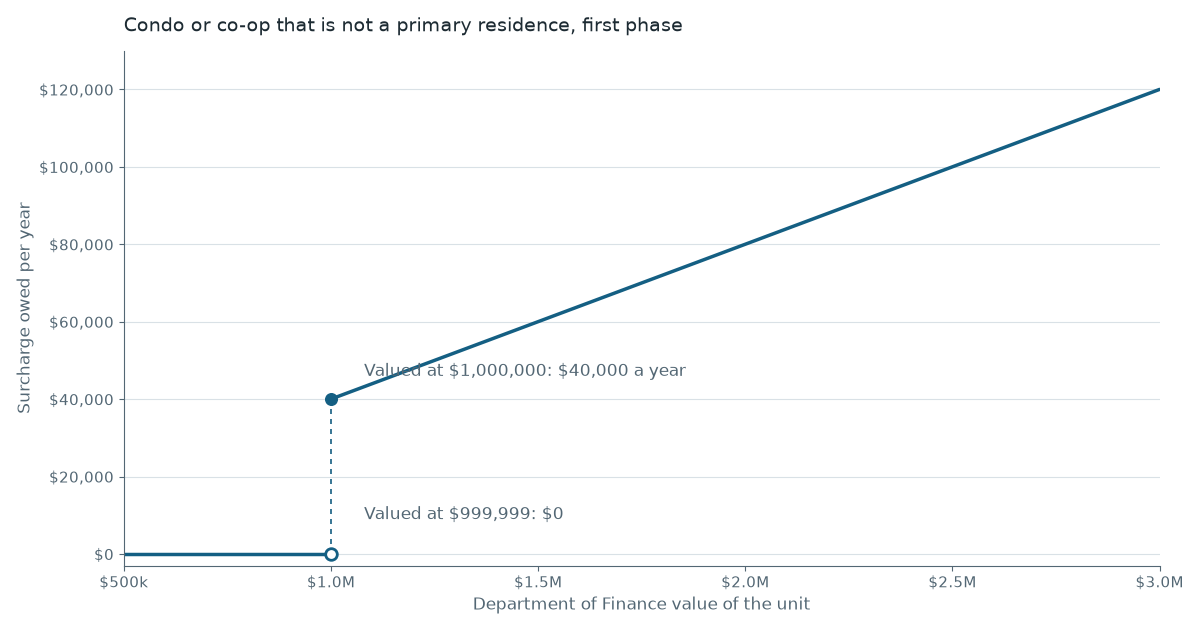
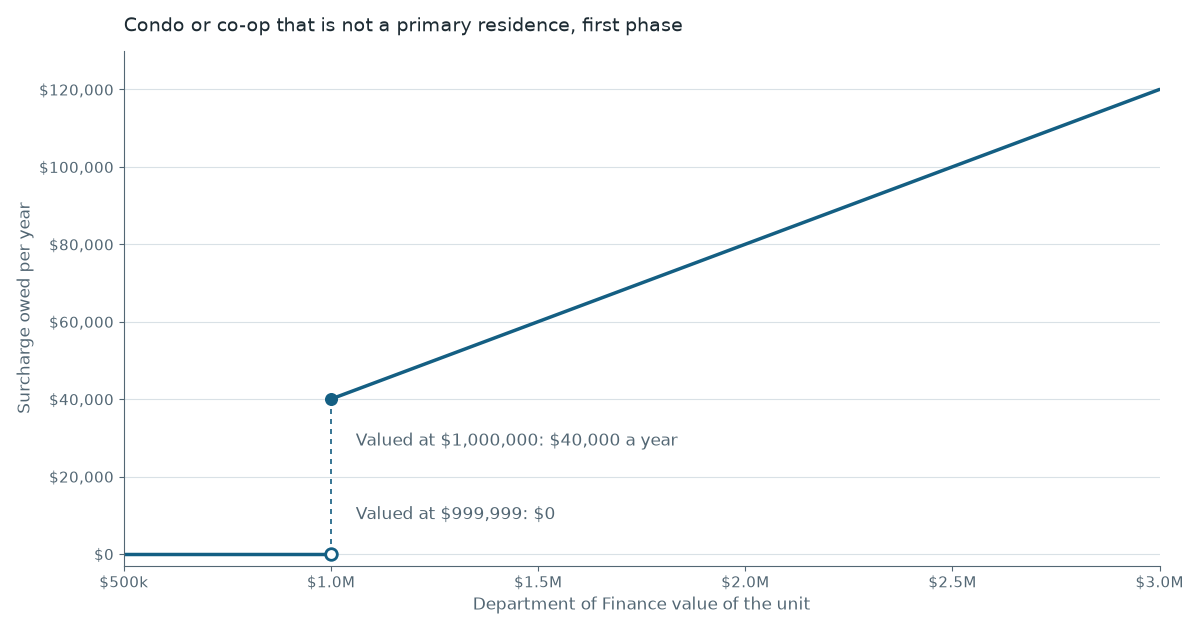
Second-home tax story: keep 'second-home' on one line in the headline; move chart labels off the line

Changed region(s): [[0.3083, 0.7841, 0.4625, 0.8444], [0.3083, 0.573, 0.5858, 0.6032], [0.3083, 0.6937, 0.555, 0.7238]]

diff --git a/dist/stories/second-home-tax-cliff/index.html b/dist/stories/second-home-tax-cliff/index.html
@@ -1,4 +1,4 @@
-<!doctype html><html lang="en"><head><meta charset="utf-8"><meta name="viewport" content="width=device-width, initial-scale=1"><meta name="color-scheme" content="light dark"><title>New York&#x27;s second-home tax starts at a cliff | NYC Housing Data</title><meta name="description" content="Owners of condos the city values at $1 million or more, and of houses valued at $5 million or more, will get bills this winter. One dollar over the line and the surcharge covers the whole value."><link rel="canonical" href="https://nychousingdata.com/stories/second-home-tax-cliff/"><meta property="og:type" content="article"><meta property="og:title" content="New York&#x27;s second-home tax starts at a cliff"><meta property="og:description" content="Owners of condos the city values at $1 million or more, and of houses valued at $5 million or more, will get bills this winter. One dollar over the line and the surcharge covers the whole value."><meta property="og:url" content="https://nychousingdata.com/stories/second-home-tax-cliff/"><meta property="og:image" content="https://nychousingdata.com/assets/stories/second-home-surcharge.png"><meta name="twitter:card" content="summary_large_image"><link rel="stylesheet" href="../../assets/site.css?v=20261028review"><link rel="stylesheet" href="../../assets/stories.css?v=20261028review"><link rel="alternate" type="application/atom+xml" title="Housing Stories" href="../../stories/feed.xml"><script type="application/ld+json">{"@context": "https://schema.org", "@type": "Article", "headline": "New York's second-home tax starts at a cliff", "description": "Owners of condos the city values at $1 million or more, and of houses valued at $5 million or more, will get bills this winter. One dollar over the line and the surcharge covers the whole value.", "author": {"@type": "Person", "name": "Pablo Loschi", "url": "https://nychousingdata.com/#about"}, "datePublished": "2026-11-07", "dateModified": "2026-11-07", "image": "https://nychousingdata.com/assets/stories/second-home-surcharge.png", "mainEntityOfPage": "https://nychousingdata.com/stories/second-home-tax-cliff/", "isBasedOn": "https://doi.org/10.5281/zenodo.23761331", "license": "https://creativecommons.org/licenses/by/4.0/"}</script><link rel="icon" type="image/svg+xml" href="../../assets/logo.svg"><link rel="stylesheet" href="../../assets/tools.css?v=20261028review"></head><body><a class="skip" href="#main">Skip to content</a><header class="site-header"><div class="header-inner"><a class="brand" href="../../"><span class="brand-mark" aria-hidden="true"><img src="../../assets/logo.svg" width="43" height="43" alt=""></span><span class="brand-name">NYC Housing Data</span></a><nav class="site-nav" aria-label="Main navigation"><a href="../../explore/">Explore data</a><a href="../../stories/" aria-current="page">Stories</a><a href="../../#papers">Research</a><a href="../../press/">Press</a><a href="../../#about">About</a></nav></div></header><main id="main"><section class="story-head"><div class="wrap"><nav class="breadcrumbs" aria-label="Breadcrumb"><a href="../">Stories</a><span>/</span><span>Buying &amp; taxes</span></nav><p class="eyebrow">Analysis · New York City</p><h1>New York&#x27;s second-home tax starts at a cliff</h1><p class="story-deck">Owners of condos the city values at $1 million or more, and of houses valued at $5 million or more, will get bills this winter. One dollar over the line and the surcharge covers the whole value.</p><div class="story-byline"><span>By <a href="../../#about">Pablo Loschi</a></span><time datetime="2026-11-07">7 November 2026</time><span>5 min read</span><a href="#sources">Sources &amp; methods</a></div></div></section><article class="story-text">
+<!doctype html><html lang="en"><head><meta charset="utf-8"><meta name="viewport" content="width=device-width, initial-scale=1"><meta name="color-scheme" content="light dark"><title>New York&#x27;s second-home tax starts at a cliff | NYC Housing Data</title><meta name="description" content="Owners of condos the city values at $1 million or more, and of houses valued at $5 million or more, will get bills this winter. One dollar over the line and the surcharge covers the whole value."><link rel="canonical" href="https://nychousingdata.com/stories/second-home-tax-cliff/"><meta property="og:type" content="article"><meta property="og:title" content="New York&#x27;s second-home tax starts at a cliff"><meta property="og:description" content="Owners of condos the city values at $1 million or more, and of houses valued at $5 million or more, will get bills this winter. One dollar over the line and the surcharge covers the whole value."><meta property="og:url" content="https://nychousingdata.com/stories/second-home-tax-cliff/"><meta property="og:image" content="https://nychousingdata.com/assets/stories/second-home-surcharge.png"><meta name="twitter:card" content="summary_large_image"><link rel="stylesheet" href="../../assets/site.css?v=20261028review"><link rel="stylesheet" href="../../assets/stories.css?v=20261028review"><link rel="alternate" type="application/atom+xml" title="Housing Stories" href="../../stories/feed.xml"><script type="application/ld+json">{"@context": "https://schema.org", "@type": "Article", "headline": "New York's second-home tax starts at a cliff", "description": "Owners of condos the city values at $1 million or more, and of houses valued at $5 million or more, will get bills this winter. One dollar over the line and the surcharge covers the whole value.", "author": {"@type": "Person", "name": "Pablo Loschi", "url": "https://nychousingdata.com/#about"}, "datePublished": "2026-11-07", "dateModified": "2026-11-07", "image": "https://nychousingdata.com/assets/stories/second-home-surcharge.png", "mainEntityOfPage": "https://nychousingdata.com/stories/second-home-tax-cliff/", "isBasedOn": "https://doi.org/10.5281/zenodo.23761331", "license": "https://creativecommons.org/licenses/by/4.0/"}</script><link rel="icon" type="image/svg+xml" href="../../assets/logo.svg"><link rel="stylesheet" href="../../assets/tools.css?v=20261028review"></head><body><a class="skip" href="#main">Skip to content</a><header class="site-header"><div class="header-inner"><a class="brand" href="../../"><span class="brand-mark" aria-hidden="true"><img src="../../assets/logo.svg" width="43" height="43" alt=""></span><span class="brand-name">NYC Housing Data</span></a><nav class="site-nav" aria-label="Main navigation"><a href="../../explore/">Explore data</a><a href="../../stories/" aria-current="page">Stories</a><a href="../../#papers">Research</a><a href="../../press/">Press</a><a href="../../#about">About</a></nav></div></header><main id="main"><section class="story-head"><div class="wrap"><nav class="breadcrumbs" aria-label="Breadcrumb"><a href="../">Stories</a><span>/</span><span>Buying &amp; taxes</span></nav><p class="eyebrow">Analysis · New York City</p><h1>New York&#x27;s <span style="white-space:nowrap">second-home</span> tax starts at a cliff</h1><p class="story-deck">Owners of condos the city values at $1 million or more, and of houses valued at $5 million or more, will get bills this winter. One dollar over the line and the surcharge covers the whole value.</p><div class="story-byline"><span>By <a href="../../#about">Pablo Loschi</a></span><time datetime="2026-11-07">7 November 2026</time><span>5 min read</span><a href="#sources">Sources &amp; methods</a></div></div></section><article class="story-text">
 <p>On 4 November a state appeals court threw out the lawsuit that had held up New York City's surcharge on homes that are nobody's primary residence. The four judges of the Appellate Division, Second Department, ruled unanimously that the seven homeowners who sued had not shown that the city's notices harmed them. They did not rule on the tax itself, and other challenges, including one in Suffolk County, are still pending. A real estate lawyer told Commercial Observer that owners should expect bills within weeks. The first payment is due on 1 January 2027.</p>
 <p>Mayor Mamdani proposed the surcharge, and it passed as part of the state budget Governor Hochul signed in May. The city mailed about 17,000 notices to owners whose records did not show a primary residence, and Gothamist reports that more than 8,800 exemptions have been granted since. The comptroller estimated earlier this year that the surcharge could raise up to $380 million a year from about 11,200 properties; the mayor puts the figure at $500 million.</p>
 <p>Until June 2028 it runs on two schedules. A condo or co-op unit pays 4% a year once the Department of Finance values it at $1 million, 5.25% above $3 million and 6.5% above $5 million. A one- to three-family house pays 0.8% from $5 million, 1.05% above $15 million and 1.3% above $25 million.</p>

diff --git a/stories/second-home-tax-cliff/index.html b/stories/second-home-tax-cliff/index.html
@@ -1,4 +1,4 @@
-<!doctype html><html lang="en"><head><meta charset="utf-8"><meta name="viewport" content="width=device-width, initial-scale=1"><meta name="color-scheme" content="light dark"><title>New York&#x27;s second-home tax starts at a cliff | NYC Housing Data</title><meta name="description" content="Owners of condos the city values at $1 million or more, and of houses valued at $5 million or more, will get bills this winter. One dollar over the line and the surcharge covers the whole value."><link rel="canonical" href="https://nychousingdata.com/stories/second-home-tax-cliff/"><meta property="og:type" content="article"><meta property="og:title" content="New York&#x27;s second-home tax starts at a cliff"><meta property="og:description" content="Owners of condos the city values at $1 million or more, and of houses valued at $5 million or more, will get bills this winter. One dollar over the line and the surcharge covers the whole value."><meta property="og:url" content="https://nychousingdata.com/stories/second-home-tax-cliff/"><meta property="og:image" content="https://nychousingdata.com/assets/stories/second-home-surcharge.png"><meta name="twitter:card" content="summary_large_image"><link rel="stylesheet" href="../../assets/site.css?v=20261028review"><link rel="stylesheet" href="../../assets/stories.css?v=20261028review"><link rel="alternate" type="application/atom+xml" title="Housing Stories" href="../../stories/feed.xml"><script type="application/ld+json">{"@context": "https://schema.org", "@type": "Article", "headline": "New York's second-home tax starts at a cliff", "description": "Owners of condos the city values at $1 million or more, and of houses valued at $5 million or more, will get bills this winter. One dollar over the line and the surcharge covers the whole value.", "author": {"@type": "Person", "name": "Pablo Loschi", "url": "https://nychousingdata.com/#about"}, "datePublished": "2026-11-07", "dateModified": "2026-11-07", "image": "https://nychousingdata.com/assets/stories/second-home-surcharge.png", "mainEntityOfPage": "https://nychousingdata.com/stories/second-home-tax-cliff/", "isBasedOn": "https://doi.org/10.5281/zenodo.23761331", "license": "https://creativecommons.org/licenses/by/4.0/"}</script><link rel="icon" type="image/svg+xml" href="../../assets/logo.svg"><link rel="stylesheet" href="../../assets/tools.css?v=20261028review"></head><body><a class="skip" href="#main">Skip to content</a><header class="site-header"><div class="header-inner"><a class="brand" href="../../"><span class="brand-mark" aria-hidden="true"><img src="../../assets/logo.svg" width="43" height="43" alt=""></span><span class="brand-name">NYC Housing Data</span></a><nav class="site-nav" aria-label="Main navigation"><a href="../../explore/">Explore data</a><a href="../../stories/" aria-current="page">Stories</a><a href="../../#papers">Research</a><a href="../../press/">Press</a><a href="../../#about">About</a></nav></div></header><main id="main"><section class="story-head"><div class="wrap"><nav class="breadcrumbs" aria-label="Breadcrumb"><a href="../">Stories</a><span>/</span><span>Buying &amp; taxes</span></nav><p class="eyebrow">Analysis · New York City</p><h1>New York&#x27;s second-home tax starts at a cliff</h1><p class="story-deck">Owners of condos the city values at $1 million or more, and of houses valued at $5 million or more, will get bills this winter. One dollar over the line and the surcharge covers the whole value.</p><div class="story-byline"><span>By <a href="../../#about">Pablo Loschi</a></span><time datetime="2026-11-07">7 November 2026</time><span>5 min read</span><a href="#sources">Sources &amp; methods</a></div></div></section><article class="story-text">
+<!doctype html><html lang="en"><head><meta charset="utf-8"><meta name="viewport" content="width=device-width, initial-scale=1"><meta name="color-scheme" content="light dark"><title>New York&#x27;s second-home tax starts at a cliff | NYC Housing Data</title><meta name="description" content="Owners of condos the city values at $1 million or more, and of houses valued at $5 million or more, will get bills this winter. One dollar over the line and the surcharge covers the whole value."><link rel="canonical" href="https://nychousingdata.com/stories/second-home-tax-cliff/"><meta property="og:type" content="article"><meta property="og:title" content="New York&#x27;s second-home tax starts at a cliff"><meta property="og:description" content="Owners of condos the city values at $1 million or more, and of houses valued at $5 million or more, will get bills this winter. One dollar over the line and the surcharge covers the whole value."><meta property="og:url" content="https://nychousingdata.com/stories/second-home-tax-cliff/"><meta property="og:image" content="https://nychousingdata.com/assets/stories/second-home-surcharge.png"><meta name="twitter:card" content="summary_large_image"><link rel="stylesheet" href="../../assets/site.css?v=20261028review"><link rel="stylesheet" href="../../assets/stories.css?v=20261028review"><link rel="alternate" type="application/atom+xml" title="Housing Stories" href="../../stories/feed.xml"><script type="application/ld+json">{"@context": "https://schema.org", "@type": "Article", "headline": "New York's second-home tax starts at a cliff", "description": "Owners of condos the city values at $1 million or more, and of houses valued at $5 million or more, will get bills this winter. One dollar over the line and the surcharge covers the whole value.", "author": {"@type": "Person", "name": "Pablo Loschi", "url": "https://nychousingdata.com/#about"}, "datePublished": "2026-11-07", "dateModified": "2026-11-07", "image": "https://nychousingdata.com/assets/stories/second-home-surcharge.png", "mainEntityOfPage": "https://nychousingdata.com/stories/second-home-tax-cliff/", "isBasedOn": "https://doi.org/10.5281/zenodo.23761331", "license": "https://creativecommons.org/licenses/by/4.0/"}</script><link rel="icon" type="image/svg+xml" href="../../assets/logo.svg"><link rel="stylesheet" href="../../assets/tools.css?v=20261028review"></head><body><a class="skip" href="#main">Skip to content</a><header class="site-header"><div class="header-inner"><a class="brand" href="../../"><span class="brand-mark" aria-hidden="true"><img src="../../assets/logo.svg" width="43" height="43" alt=""></span><span class="brand-name">NYC Housing Data</span></a><nav class="site-nav" aria-label="Main navigation"><a href="../../explore/">Explore data</a><a href="../../stories/" aria-current="page">Stories</a><a href="../../#papers">Research</a><a href="../../press/">Press</a><a href="../../#about">About</a></nav></div></header><main id="main"><section class="story-head"><div class="wrap"><nav class="breadcrumbs" aria-label="Breadcrumb"><a href="../">Stories</a><span>/</span><span>Buying &amp; taxes</span></nav><p class="eyebrow">Analysis · New York City</p><h1>New York&#x27;s <span style="white-space:nowrap">second-home</span> tax starts at a cliff</h1><p class="story-deck">Owners of condos the city values at $1 million or more, and of houses valued at $5 million or more, will get bills this winter. One dollar over the line and the surcharge covers the whole value.</p><div class="story-byline"><span>By <a href="../../#about">Pablo Loschi</a></span><time datetime="2026-11-07">7 November 2026</time><span>5 min read</span><a href="#sources">Sources &amp; methods</a></div></div></section><article class="story-text">
 <p>On 4 November a state appeals court threw out the lawsuit that had held up New York City's surcharge on homes that are nobody's primary residence. The four judges of the Appellate Division, Second Department, ruled unanimously that the seven homeowners who sued had not shown that the city's notices harmed them. They did not rule on the tax itself, and other challenges, including one in Suffolk County, are still pending. A real estate lawyer told Commercial Observer that owners should expect bills within weeks. The first payment is due on 1 January 2027.</p>
 <p>Mayor Mamdani proposed the surcharge, and it passed as part of the state budget Governor Hochul signed in May. The city mailed about 17,000 notices to owners whose records did not show a primary residence, and Gothamist reports that more than 8,800 exemptions have been granted since. The comptroller estimated earlier this year that the surcharge could raise up to $380 million a year from about 11,200 properties; the mayor puts the figure at $500 million.</p>
 <p>Until June 2028 it runs on two schedules. A condo or co-op unit pays 4% a year once the Department of Finance values it at $1 million, 5.25% above $3 million and 6.5% above $5 million. A one- to three-family house pays 0.8% from $5 million, 1.05% above $15 million and 1.3% above $25 million.</p>

diff --git a/assets/stories/second_home_surcharge.py b/assets/stories/second_home_surcharge.py
@@ -32,8 +32,8 @@ ax.plot([1_000_000, 2_999_999], [40_000, owed(2_999_999)], color=BLUE, lw=2.5, s
 ax.plot([1_000_000, 1_000_000], [0, 40_000], color=BLUE, lw=1.2, ls=(0, (3, 3)))
 ax.scatter([999_999], [0], s=70, facecolor="white", edgecolor=BLUE, lw=2, zorder=3)
 ax.scatter([1_000_000], [40_000], s=70, color=BLUE, zorder=3)
-ax.annotate("Valued at $999,999: $0", (999_999, 0), xytext=(1_080_000, 9_000), color=INK, fontsize=12)
-ax.annotate("Valued at $1,000,000: $40,000 a year", (1_000_000, 40_000), xytext=(1_080_000, 46_000), color=INK, fontsize=12)
+ax.annotate("Valued at $999,999: $0", (999_999, 0), xytext=(1_060_000, 9_000), color=INK, fontsize=12)
+ax.annotate("Valued at $1,000,000: $40,000 a year", (1_000_000, 40_000), xytext=(1_060_000, 28_000), color=INK, fontsize=12)
 ax.set_xlim(500_000, 3_000_000)
 ax.set_ylim(-3_000, 130_000)
 money = FuncFormatter(lambda x, _: f"${x/1e6:.1f}M" if x >= 1e6 else f"${x/1e3:.0f}k")

diff --git a/dist/assets/stories/second_home_surcharge.py b/dist/assets/stories/second_home_surcharge.py
@@ -32,8 +32,8 @@ ax.plot([1_000_000, 2_999_999], [40_000, owed(2_999_999)], color=BLUE, lw=2.5, s
 ax.plot([1_000_000, 1_000_000], [0, 40_000], color=BLUE, lw=1.2, ls=(0, (3, 3)))
 ax.scatter([999_999], [0], s=70, facecolor="white", edgecolor=BLUE, lw=2, zorder=3)
 ax.scatter([1_000_000], [40_000], s=70, color=BLUE, zorder=3)
-ax.annotate("Valued at $999,999: $0", (999_999, 0), xytext=(1_080_000, 9_000), color=INK, fontsize=12)
-ax.annotate("Valued at $1,000,000: $40,000 a year", (1_000_000, 40_000), xytext=(1_080_000, 46_000), color=INK, fontsize=12)
+ax.annotate("Valued at $999,999: $0", (999_999, 0), xytext=(1_060_000, 9_000), color=INK, fontsize=12)
+ax.annotate("Valued at $1,000,000: $40,000 a year", (1_000_000, 40_000), xytext=(1_060_000, 28_000), color=INK, fontsize=12)
 ax.set_xlim(500_000, 3_000_000)
 ax.set_ylim(-3_000, 130_000)
 money = FuncFormatter(lambda x, _: f"${x/1e6:.1f}M" if x >= 1e6 else f"${x/1e3:.0f}k")
